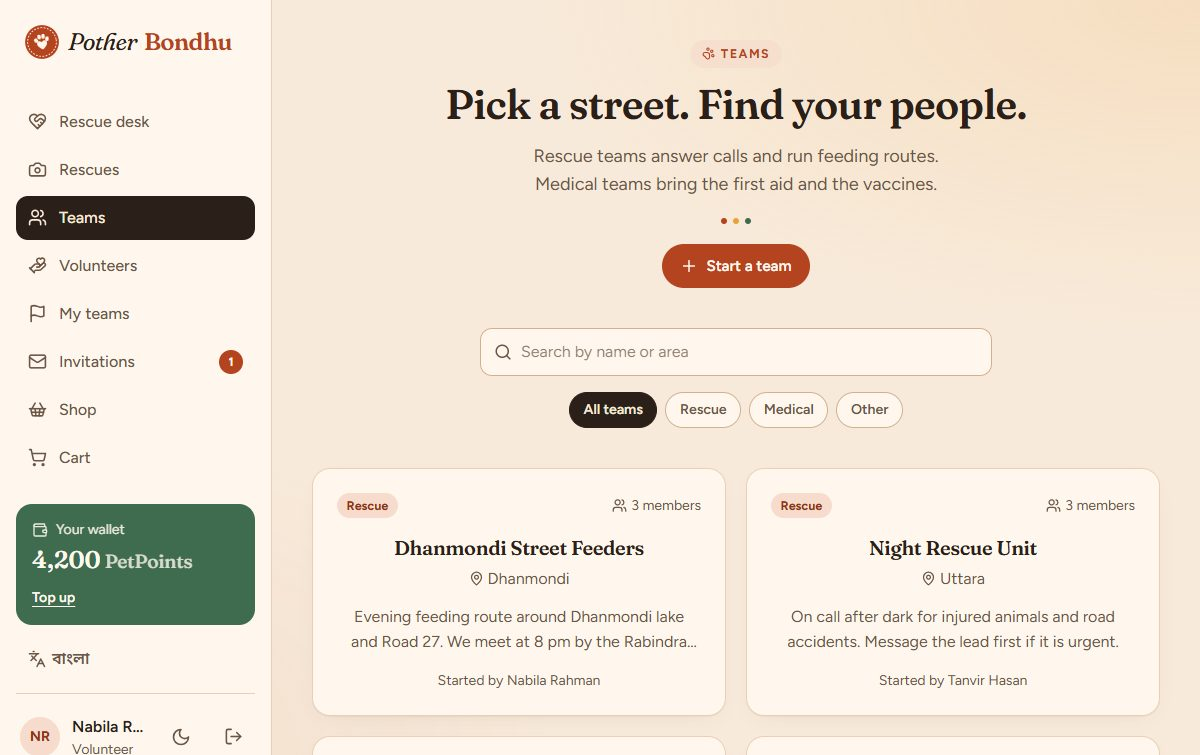
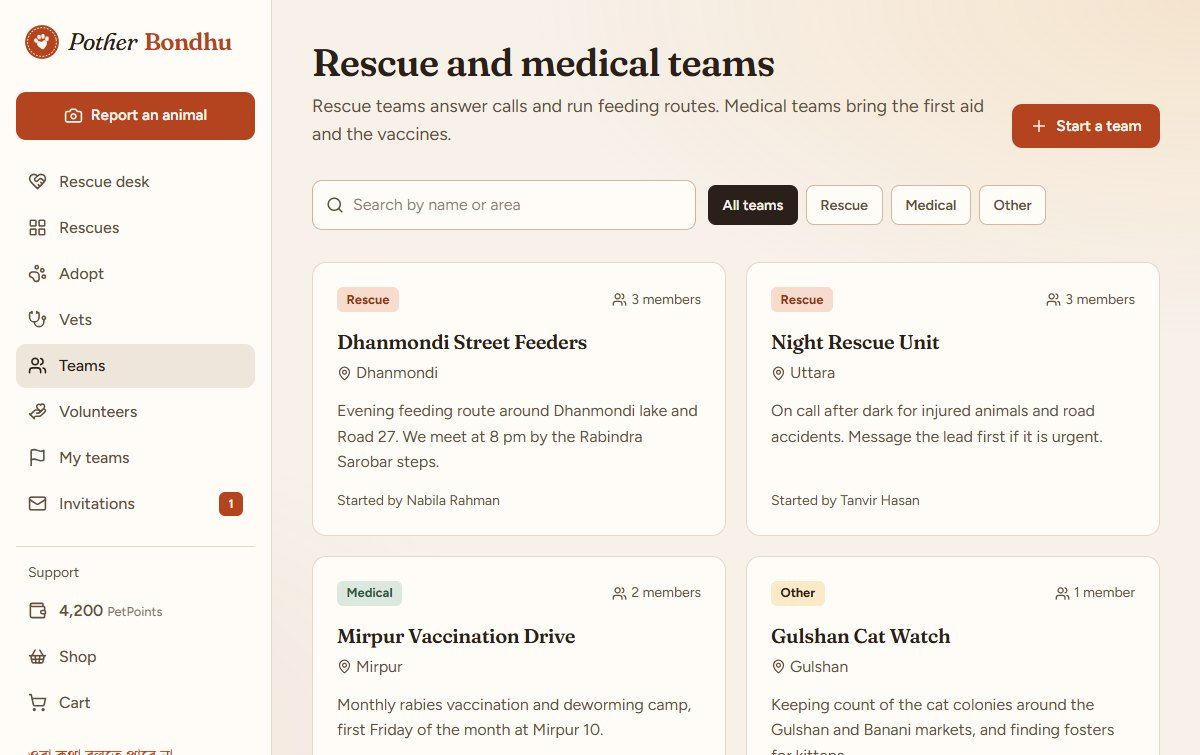
After screenshots, new README images and desk description

diff --git a/docs/redesign/PLAN.md b/docs/redesign/PLAN.md
@@ -1,6 +1,6 @@
 # Pother Bondhu redesign plan
 
-Status: waiting for your choice of direction (A, B or C). No app code has changed yet.
+Status: built on the redesign branch. Chosen direction: the landing from C and the rescue desk from A, with the warm mixed wash kept and justified text on long lines. After screenshots are in docs/redesign/after/.
 
 Samples: serve the repo root (`python -m http.server 5199`) and open `http://127.0.0.1:5199/docs/redesign/samples/`. Screenshots of every sample at 360 px and 1280 px, light and dark, are in `docs/redesign/samples/shots/`. Before screenshots are in `docs/redesign/before/`.
 

diff --git a/README.md b/README.md
@@ -53,7 +53,8 @@ with PetPoints and a small supplies shop.
 
 **Rescue desk**
 - After signing in, the home page becomes your dashboard
-- Quick actions, the latest posts, your teams and waiting invitations
+- Animals that need help near you come first, then your own reports and their status, invitations and teams
+- A Report an animal button is always one tap away, at the top of the menu or at the bottom of a phone screen
 
 **Wallet and shop**
 - Top up PetPoints (an in-app credit)
